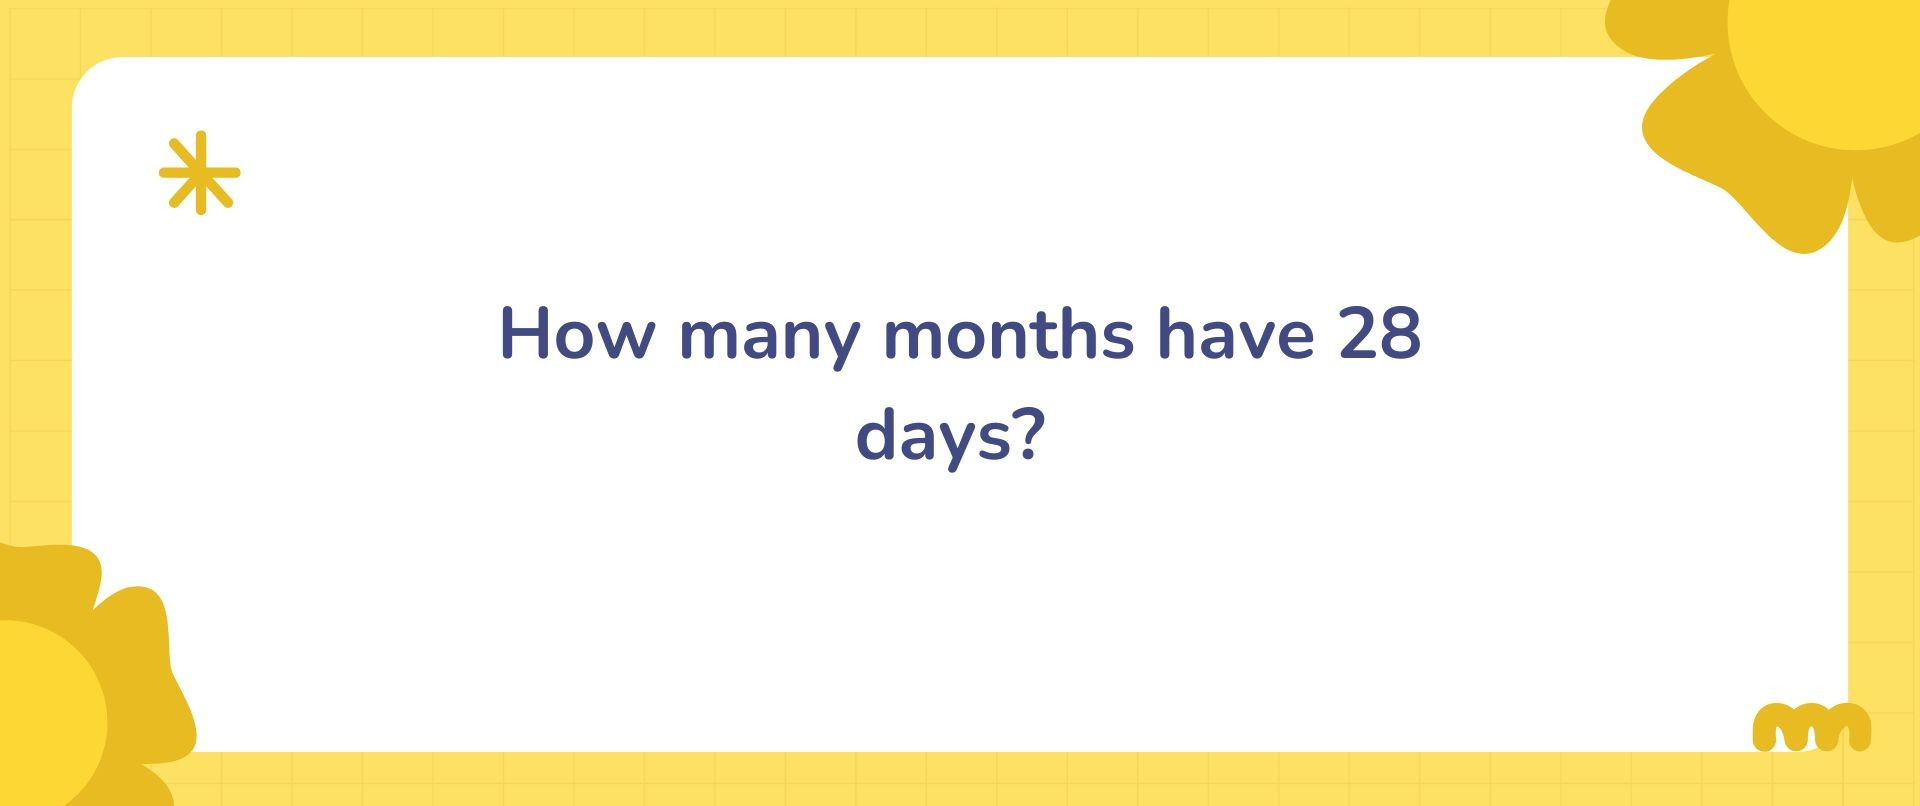
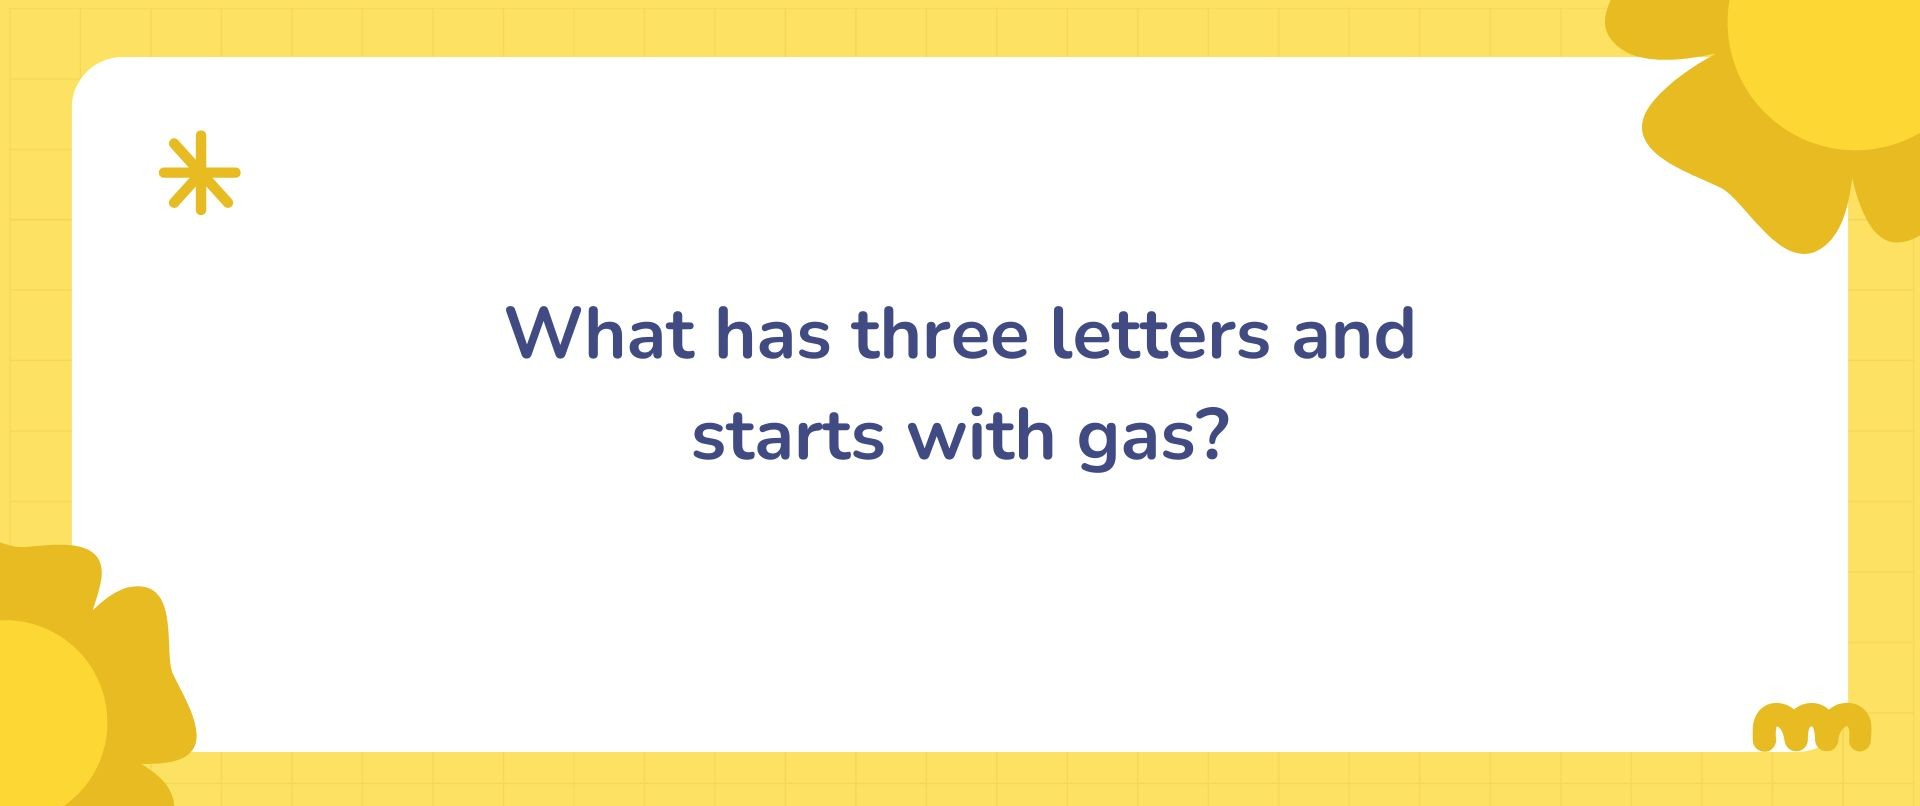
updated object B

Changed region(s): [[0.25, 0.3722, 0.75, 0.4653], [0.3438, 0.4963, 0.6562, 0.5893]]

diff --git a/object-B/index.html b/object-B/index.html
@@ -1202,7 +1202,7 @@
                     
                     setTimeout(()=>{
                         stereo_question_controller();
-                        washout_answer.setAttribute('value','Ans: 2');
+                        washout_answer.setAttribute('value','Ans: Car');
                         washout_question.setAttribute('value','Question 1');
                         washout_image.setAttribute('src','./images/puzzle1.jpg')
 
@@ -1237,7 +1237,7 @@
 
                     setTimeout(()=>{
                         hrtf1_question_controller();
-                        washout_answer.setAttribute('value','Ans: Jared');
+                        washout_answer.setAttribute('value','Ans: His horse is named Friday');
                         washout_question.setAttribute('value','Question 2');
                         washout_image.setAttribute('src','./images/puzzle2.jpg')
 
@@ -1274,7 +1274,7 @@
 
                     setTimeout(()=>{
                         binaural_question_controller();
-                        washout_answer.setAttribute('value','Ans: A staircase');
+                        washout_answer.setAttribute('value','Ans: Ton');
                         washout_question.setAttribute('value','Question 3');
                         washout_image.setAttribute('src','./images/puzzle3.jpg')
 
